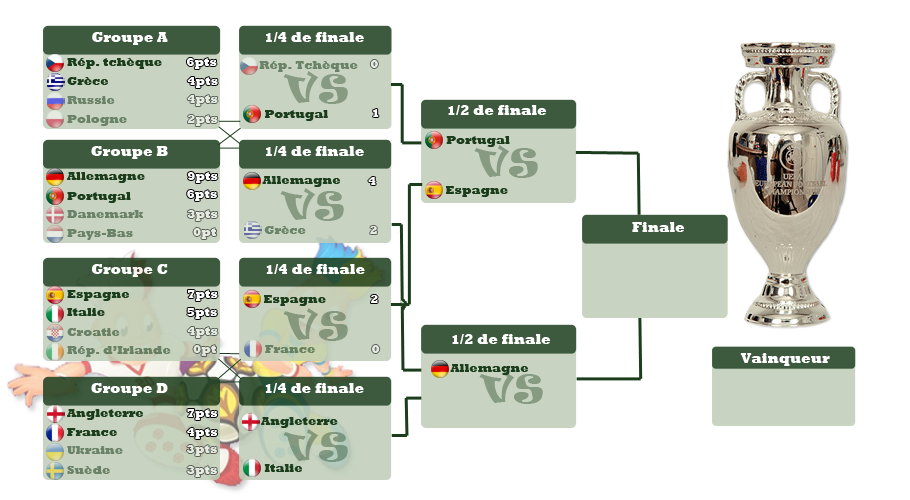
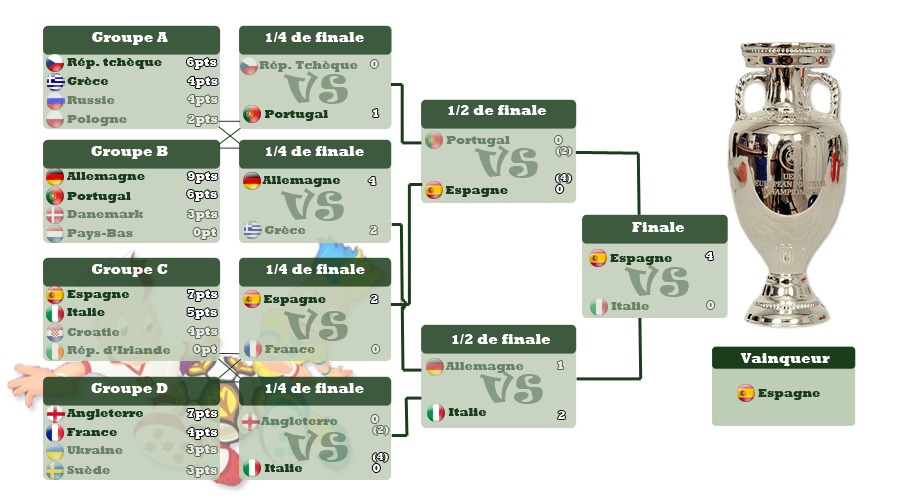
Quelque correction lié au passage en UTF8

diff --git a/themes/EURO2012/js/submodules/login.js b/themes/EURO2012/js/submodules/login.js
@@ -51,7 +51,7 @@ function callbackPost (data){
 	if(data.status==true) {
 		// status is authorized
 		if(autoRedir){ 
-			$(waitId).hide().html('Redirection...').fadeIn('fast', function(){window.location=data.url;});
+			$(waitId).hide().html('Redirection...').fadeIn('fast', function(){window.location.replace(data.url);});
 		} else {
 			$(waitId).fadeOut('slow', function(){ $(wrapperId).html(data.message).slideDown(); }).html();
 		}

diff --git a/classes/authentication.php b/classes/authentication.php
@@ -3,7 +3,7 @@
 if(!defined('VALID_ACCESS_AUTHENTICATION_')) exit(basename(__FILE__) . ' -> direct access is not allowed.');
 
 define('VALID_ACCESS_SENDEMAIL_', true);
-define('SESSION_DURATION', 45);
+define('SESSION_DURATION', 10);
 
 require_once("sendemail.php");
 require_once(dirname(__FILE__)."/../lib/p4fmailer.php");
@@ -11,19 +11,31 @@ include_once (dirname(__FILE__)."/../lib/safeIO.php");
 
 class Authorization
 {
-private $_alreadyRefresh   = false;
+  private $_alreadyRefresh   = false;
   public function IsAuthenticated()
   {
     if (isset($_COOKIE["UserToken"]) && $_COOKIE["UserToken"] !="") {
       $this->refreshUserData();
+      setcookie("SessionHasBeenRefreshed", "true", time() + 90 * 24 * 60 * 60, "/");
+    } else {
+      setcookie("SessionHasBeenRefreshed", "false", time() + 90 * 24 * 60 * 60, "/");
     }
 
     if(empty($_SESSION['exp_user']) || @$_SESSION['exp_user']['expires'] < time())
     {
+      setcookie("SessionIsEmpty", "true", time() + 90 * 24 * 60 * 60, "/");
+      if ($_SESSION['exp_user']['expires'] < time())
+      {   setcookie("SessionHasExpired", $_SESSION['exp_user']['expires'], time() + 90 * 24 * 60 * 60, "/");
+      setcookie("ServerTime", time(), time() + 90 * 24 * 60 * 60, "/");
+      }
+      else {
+      setcookie("SessionHasExpired", "false", time() + 90 * 24 * 60 * 60, "/");
+      }
       return false;
     }
     else
     {
+      setcookie("SessionIsEmpty", "false", time() + 90 * 24 * 60 * 60, "/");
       return true;
     }
   }
@@ -499,10 +511,10 @@ private $_alreadyRefresh   = false;
 
       unset($rowSet,$resultSet,$sql);
       if ($return) {
-        // D�finition du temps d'expiration des cookies
+        // Définition du temps d'expiration des cookies
         $expiration = $KeepConnection == "false" ? time() + 60*SESSION_DURATION : time() + 90 * 24 * 60 * 60;
         $keepConnection = $KeepConnection;
-        //   Cr�ation des cookies
+        //   Création des cookies
         $userToken = generatePassword(50,7);
         setcookie("UserToken", $userToken, $expiration, "/");
         setcookie("NickName", $this->getConnectedUser(), time() + 90 * 24 * 60 * 60, "/");
@@ -548,7 +560,7 @@ private $_alreadyRefresh   = false;
         try {
           $mail->SetFrom('admin@pronostics4fun.com', 'Pronostics4Fun - Administrateur');
           $mail->AddReplyTo('admin@pronostics4fun.com', 'Pronostics4Fun - Administrateur');
-          $mail->Subject    = "Pronostics4Fun - R�initialisation du mot de passe";
+          $mail->Subject    = "Pronostics4Fun - Réinitialisation du mot de passe";
 
           $mail->AltBody    = "Pour visualiser le contenu de cet email, votre messagerie doit permettre la visualisation des emails au format HTML!"; // optional, comment out and test
 
@@ -596,21 +608,21 @@ private $_alreadyRefresh   = false;
 
         if(!$resultSet) return false;
         //TODO: Check if the account is enabled
-        while ($rowSet = $_databaseObject -> fetch_assoc ($resultSet))
-        {
-          $this->set_session(array_merge($rowSet,array('expires'=>time()+(60*SESSION_DURATION))));
-          $return = true;
-        }
+        $rowSet = $_databaseObject -> fetch_assoc ($resultSet);
+        $this->set_session(array_merge($rowSet,array('expires'=>time()+(60*SESSION_DURATION))));
+        $_SESSION['exp_user']['expires'] = time()+(60*SESSION_DURATION);	//@ renew 45 minutes
+        $return = true;
 
 
-        // D�finition du temps d'expiration des cookies
+
+        // Définition du temps d'expiration des cookies
         if (isset($_COOKIE["keepConnection"])){
           $expiration = $_COOKIE["keepConnection"]=="false" ? time() + (60*SESSION_DURATION) : time() + 90 * 24 * 60 * 60;
         }
         else {
           $expiration =  time() + (60*SESSION_DURATION);
         }
-        // Cr�ation des cookies
+        // Création des cookies
         $userToken = generatePassword(50,7);
         setcookie("UserToken", $userToken, $expiration, "/");
         setcookie("NickName", $this->getConnectedUser(), time() + 90 * 24 * 60 * 60, "/");
@@ -624,9 +636,11 @@ private $_alreadyRefresh   = false;
         unset($rowSet,$resultSet,$sql);
         $this->updateLastConnection($userToken);
         $this->_alreadyRefresh = true;
+        setcookie("refreshUserData", "true", time() + 90 * 24 * 60 * 60, "/");
         return $return;
       }
     } else {
+      setcookie("refreshUserData", "false", time() + 90 * 24 * 60 * 60, "/");
       $return =true;
     }
 
@@ -658,10 +672,10 @@ private $_alreadyRefresh   = false;
   public function renew_session()
   {
     if (isset($_COOKIE["keepConnection"]) && $_COOKIE["keepConnection"]=="true"){
-      setcookie("UserToken", $_COOKIE["UserToken"], time() + 90 * 24 * 60 * 60, "/");
+      setcookie("UserToken", $_SESSION['exp_user']['Token'], time() + 90 * 24 * 60 * 60, "/");
     }
     else {
-      setcookie("UserToken", $_COOKIE["UserToken"], time() + (60*SESSION_DURATION), "/");
+      setcookie("UserToken", $_SESSION['exp_user']['Token'], time() + (60*SESSION_DURATION), "/");
     }
 
     $_SESSION['exp_user']['expires'] = time()+(60*SESSION_DURATION);	//@ renew 45 minutes
@@ -671,7 +685,10 @@ private $_alreadyRefresh   = false;
   {
     if(!empty($a))
     {
+      setcookie("exp_user", "true", time() + 90 * 24 * 60 * 60, "/");
       $_SESSION['exp_user'] = $a;
+    } else {
+      setcookie("exp_user", "false", time() + 90 * 24 * 60 * 60, "/");
     }
   }
 }

diff --git a/lib/match.php b/lib/match.php
@@ -256,7 +256,7 @@ function GetUefaMatchInfo ($_teamHomeKey,$_teamAwayKey,$_externalKey,$matchKey,$
   $isToBeRefreshed = true;
   if ($isLive) {
     $isToBeRefreshed = false;
-    $urlToGetMatchInfo = "http://fr.uefa.com/livecommon/match-centre/cup=3/season=2012/day=7/session=1/match=$_externalKey/feed/minute.json?t=".time();
+    $urlToGetMatchInfo = "http://fr.uefa.com/livecommon/match-centre/cup=3/season=2012/day=10/session=1/match=$_externalKey/feed/minute.json?t=".time();
 
     $objectReturn["urlToGetMatchInfo"]= $urlToGetMatchInfo;
     $homeId="";
@@ -273,7 +273,15 @@ function GetUefaMatchInfo ($_teamHomeKey,$_teamAwayKey,$_externalKey,$matchKey,$
       case 2:
         $liveStatus=3;
         break;
-
+      case 3:
+        $liveStatus=5;
+        break;
+      case 4:
+        $liveStatus=7;
+        break;
+      case 5:
+        $liveStatus=7;
+        break;
       default:
         $liveStatus=0;
         break;
@@ -294,6 +302,12 @@ function GetUefaMatchInfo ($_teamHomeKey,$_teamAwayKey,$_externalKey,$matchKey,$
     } else {
       $actualTime=$infoMatch->Minute;
       $actualTime+=$infoMatch->MinuteExtra;
+    }
+
+    if ($liveStatus>=5) {
+      $actualTime=$infoMatch->Minute;
+      $actualTime+=$infoMatch->MinuteExtra;
+      $actualTime+=90;
     }
     switch ($infoMatch->Report) {
       case "H":
@@ -370,7 +384,12 @@ function GetUefaMatchInfo ($_teamHomeKey,$_teamAwayKey,$_externalKey,$matchKey,$
         // phases de groupe
         //$urlToGetMatchInfo = "http://fr.uefa.com/uefaeuro/season=2012/matches/round=15172/match=$_externalKey/index.html";
         // après phase de groupe
-        $urlToGetMatchInfo = "http://fr.uefa.com/uefaeuro/season=2012/matches/round=15172/match=$_externalKey/index.html";
+        // 1/4 finale
+        //$urlToGetMatchInfo = "http://fr.uefa.com/uefaeuro/season=2012/matches/round=15173/match=$_externalKey/index.html";
+        // 1/2 finale
+        //$urlToGetMatchInfo = "http://fr.uefa.com/uefaeuro/season=2012/matches/round=15174/match=$_externalKey/index.html";
+        // finale
+        $urlToGetMatchInfo = "http://fr.uefa.com/uefaeuro/season=2012/matches/round=15175/match=$_externalKey/index.html";
         break;
     }
     $objectReturn["urlToGetMatchInfo"]= $urlToGetMatchInfo;

diff --git a/submodules/rules.php b/submodules/rules.php
@@ -1,6 +1,6 @@
 <?php
       $arr["status"] = false;
-      $arr["message"] = __encode("
+      $arr["message"] = "
 <div style='overflow: auto; width: 760px; height: 450px; margin: 58px 0px 0pt 0pt;'>
 <h5>Comptabilisation des points</h5>
 <br>
@@ -104,6 +104,7 @@ Les représentants de la Société Organisatrice se réservent la possibilité d
 <br/>
 Des modifications, substantielles ou non, peuvent éventuellement être apportées au présent règlement pendant le déroulement du Jeu ; elles seront alors portées à la connaissance des joueurs qui devront s'y soumettre en tant qu'annexes aux présentes.
 </p>
-</div>");
-echo json_encode($arr);
+</div>";
+
+writeJsonResponse($arr);
 ?>
